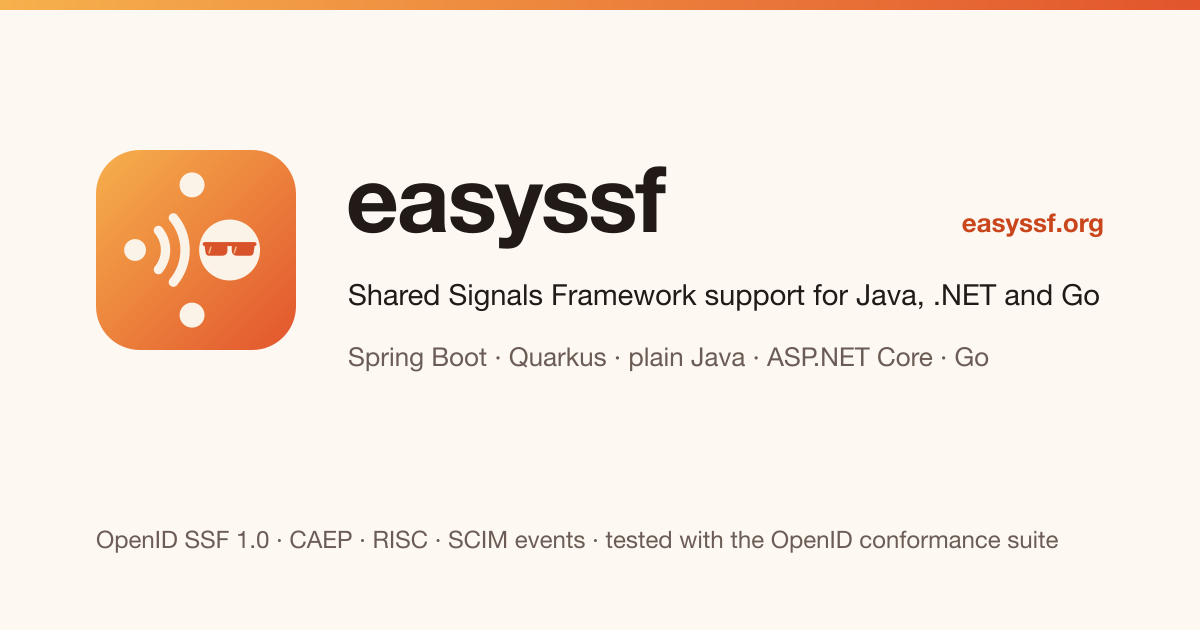
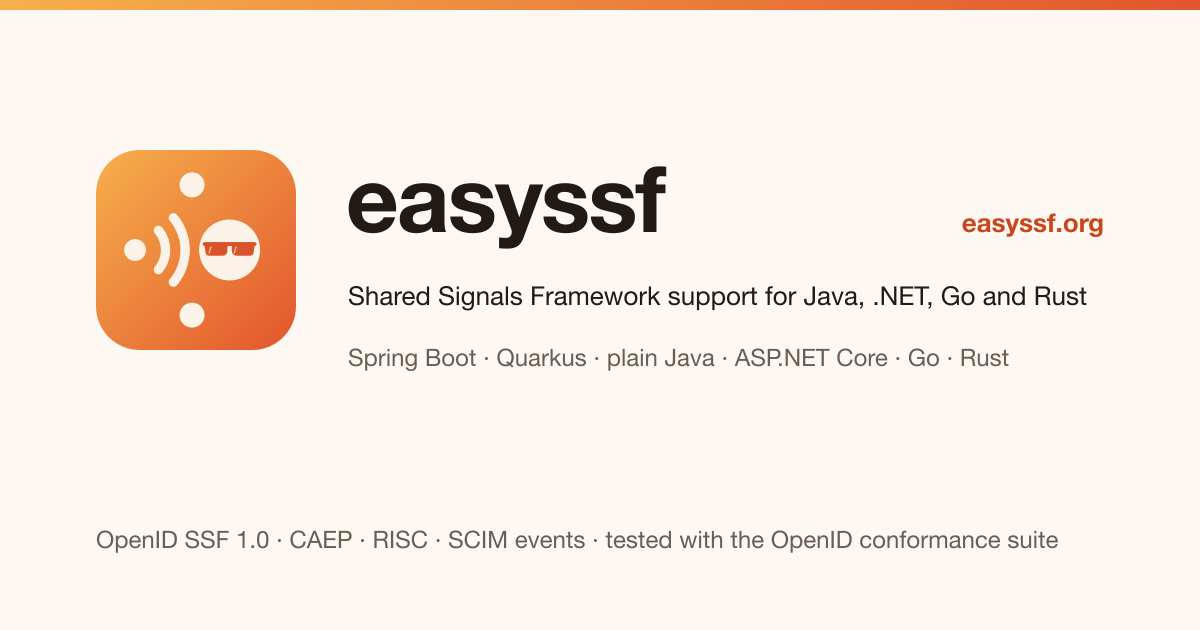
Announce easyssf-rust 0.6.0
A news item, the Rust getting started tab, the module row, Rust in the
hero, metadata and social card, and Rust and TOML syntax highlighting.

Changed region(s): [[0.2775, 0.5429, 0.8325, 0.6032], [0.2775, 0.4524, 0.925, 0.5127]]

diff --git a/index.html b/index.html
@@ -3,8 +3,8 @@
 <head>
 <meta charset="utf-8">
 <meta name="viewport" content="width=device-width, initial-scale=1, viewport-fit=cover">
-<title>easyssf · Shared Signals Framework support for Java, .NET and Go</title>
-<meta name="description" content="easyssf adds an OpenID Shared Signals Framework (SSF) receiver to Java, .NET and Go applications, with a Spring Boot starter, a Quarkus extension, an ASP.NET Core integration and a net/http handler: it verifies security event tokens, revokes access tokens and ends sessions when the identity provider says so.">
+<title>easyssf · Shared Signals Framework support for Java, .NET, Go and Rust</title>
+<meta name="description" content="easyssf adds an OpenID Shared Signals Framework (SSF) receiver to Java, .NET, Go and Rust applications, with a Spring Boot starter, a Quarkus extension, an ASP.NET Core integration, a net/http handler and axum and actix-web crates: it verifies security event tokens, revokes access tokens and ends sessions when the identity provider says so.">
 <link rel="icon" href="easyssf-icon.svg" type="image/svg+xml">
 <link rel="apple-touch-icon" href="apple-touch-icon.png">
 <link rel="canonical" href="https://easyssf.org/">
@@ -13,18 +13,18 @@
 <meta name="theme-color" content="#fdf8f1" media="(prefers-color-scheme: light)">
 <meta name="theme-color" content="#171210" media="(prefers-color-scheme: dark)">
 <meta property="og:site_name" content="easyssf">
-<meta property="og:title" content="easyssf · Shared Signals Framework support for Java, .NET and Go">
-<meta property="og:description" content="Add an OpenID Shared Signals Framework receiver to your Java, .NET or Go application, Spring Boot, Quarkus, ASP.NET Core and net/http included: verified security event tokens, revoked access tokens, ended sessions, tested with the OpenID conformance suite.">
+<meta property="og:title" content="easyssf · Shared Signals Framework support for Java, .NET, Go and Rust">
+<meta property="og:description" content="Add an OpenID Shared Signals Framework receiver to your Java, .NET, Go or Rust application, Spring Boot, Quarkus, ASP.NET Core, net/http, axum and actix-web included: verified security event tokens, revoked access tokens, ended sessions, tested with the OpenID conformance suite.">
 <meta property="og:url" content="https://easyssf.org/">
 <meta property="og:type" content="website">
 <meta property="og:locale" content="en_US">
 <meta property="og:image" content="https://easyssf.org/og-image.png">
 <meta property="og:image:width" content="1200">
 <meta property="og:image:height" content="630">
-<meta property="og:image:alt" content="easyssf: Shared Signals Framework support for Java, .NET and Go, as a Spring Boot starter, a Quarkus extension, a plain Java library, an ASP.NET Core integration and a Go module">
+<meta property="og:image:alt" content="easyssf: Shared Signals Framework support for Java, .NET, Go and Rust, as a Spring Boot starter, a Quarkus extension, a plain Java library, an ASP.NET Core integration, a Go module and Rust crates">
 <meta name="twitter:card" content="summary_large_image">
-<meta name="twitter:title" content="easyssf · Shared Signals Framework support for Java, .NET and Go">
-<meta name="twitter:description" content="Add an OpenID Shared Signals Framework receiver to your Java, .NET or Go application, Spring Boot, Quarkus, ASP.NET Core and net/http included, tested with the OpenID conformance suite.">
+<meta name="twitter:title" content="easyssf · Shared Signals Framework support for Java, .NET, Go and Rust">
+<meta name="twitter:description" content="Add an OpenID Shared Signals Framework receiver to your Java, .NET, Go or Rust application, Spring Boot, Quarkus, ASP.NET Core, net/http, axum and actix-web included, tested with the OpenID conformance suite.">
 <meta name="twitter:image" content="https://easyssf.org/og-image.png">
 <link rel="sitemap" type="application/xml" href="sitemap.xml">
 <link rel="stylesheet" href="site.css">
@@ -38,7 +38,7 @@
       "@id": "https://easyssf.org/#website",
       "url": "https://easyssf.org/",
       "name": "easyssf",
-      "description": "Shared Signals Framework support for Java, .NET and Go",
+      "description": "Shared Signals Framework support for Java, .NET, Go and Rust",
       "inLanguage": "en"
     },
     {
@@ -50,8 +50,8 @@
       "programmingLanguage": "Java",
       "runtimePlatform": ["Java 21", "Spring Boot 4.1", "Quarkus 3.27"],
       "license": "https://www.apache.org/licenses/LICENSE-2.0",
-      "description": "A library that adds an OpenID Shared Signals Framework (SSF) receiver to Java, .NET and Go applications, with a Spring Boot starter, a Quarkus extension, an ASP.NET Core integration and a net/http handler: it verifies security event tokens, revokes access tokens and ends sessions when the identity provider says so.",
-      "keywords": ["Shared Signals Framework", "SSF", "CAEP", "RISC", "SCIM Events", "Security Event Token", "OpenID", "Spring Boot", "Quarkus", "Java", ".NET", "Go", "Keycloak"],
+      "description": "A library that adds an OpenID Shared Signals Framework (SSF) receiver to Java, .NET, Go and Rust applications, with a Spring Boot starter, a Quarkus extension, an ASP.NET Core integration, a net/http handler and axum and actix-web crates: it verifies security event tokens, revokes access tokens and ends sessions when the identity provider says so.",
+      "keywords": ["Shared Signals Framework", "SSF", "CAEP", "RISC", "SCIM Events", "Security Event Token", "OpenID", "Spring Boot", "Quarkus", "Java", ".NET", "Go", "Rust", "Keycloak"],
       "about": [
         {"@type": "Thing", "name": "OpenID Shared Signals Framework 1.0", "url": "https://openid.net/specs/openid-sharedsignals-framework-1_0.html"},
         {"@type": "Thing", "name": "OpenID CAEP 1.0", "url": "https://openid.net/specs/openid-caep-1_0.html"},
@@ -92,22 +92,25 @@
 
 <div class="hero wrap">
 <div class="hero-text">
-  <h1>Shared Signals Framework<br>support for Java, .NET and Go</h1>
+  <h1>Shared Signals Framework<br>support for Java, .NET, Go and Rust</h1>
   <p class="lead">easyssf adds an <a href="https://openid.net/specs/openid-sharedsignals-framework-1_0.html">OpenID
-    Shared Signals Framework</a> receiver to your Java, .NET or Go application, so that it reacts when your identity
+    Shared Signals Framework</a> receiver to your Java, .NET, Go or Rust application, so that it reacts when your identity
     provider revokes a session, changes a credential, or signals a risk. The receiver verifies security events,
     CAEP events about sessions and credentials, RISC events about accounts, and SCIM Events about your users;
     rejects the access tokens and ends the affected sessions; and hands everything else to your code. Spring Boot
     and Quarkus get a starter and an extension; other JVM applications use the receiver library directly; ASP.NET
-    Core applications use the port <a href="https://github.com/easyssf/easyssf-dotnet">easyssf-dotnet</a>; and Go
-    applications the port <a href="https://github.com/easyssf/easyssf-go">easyssf-go</a>, on <code>net/http</code>.</p>
+    Core applications use the port <a href="https://github.com/easyssf/easyssf-dotnet">easyssf-dotnet</a>; Go
+    applications the port <a href="https://github.com/easyssf/easyssf-go">easyssf-go</a>, on <code>net/http</code>; and
+    Rust applications the crates of <a href="https://github.com/easyssf/easyssf-rust">easyssf-rust</a>, for axum and
+    actix-web.</p>
   <div class="badges">
-    <span class="badge">0.6.0 for Java, .NET and Go</span>
+    <span class="badge">0.6.0 for Java, .NET, Go and Rust</span>
     <span class="badge">Java 21+</span>
     <span class="badge">Spring Boot 4.1</span>
     <span class="badge">Quarkus 3.27</span>
     <span class="badge">.NET 10</span>
     <span class="badge">Go 1.25+</span>
+    <span class="badge">Rust 1.94+</span>
     <span class="badge">Apache License 2.0</span>
     <span class="badge">OpenID conformance suite tested</span>
   </div>
@@ -466,10 +469,11 @@
     <p class="muted" style="max-width:70ch">easyssf comes with a starter for Spring Boot and, through the Quarkiverse extension
       <a href="https://github.com/quarkiverse/quarkus-openid-ssf">quarkus-openid-ssf</a>, as an extension for Quarkus.
       Both are built on the same receiver library, which other JVM applications use on their own; all three
-      verify, de-duplicate and dispatch events the same way. Two ports bring the same receiver to other platforms:
-      <a href="https://github.com/easyssf/easyssf-dotnet">easyssf-dotnet</a> to ASP.NET Core applications and
+      verify, de-duplicate and dispatch events the same way. Three ports bring the same receiver to other platforms:
+      <a href="https://github.com/easyssf/easyssf-dotnet">easyssf-dotnet</a> to ASP.NET Core applications,
       <a href="https://github.com/easyssf/easyssf-go">easyssf-go</a> to Go applications on <code>net/http</code>
-      and the frameworks built on it.</p>
+      and the frameworks built on it, and <a href="https://github.com/easyssf/easyssf-rust">easyssf-rust</a> to
+      Rust applications on axum or actix-web.</p>
 
     <div class="switch" role="tablist" aria-label="Framework">
       <button type="button" role="tab" id="tab-spring-boot" aria-controls="start-spring-boot" aria-selected="true">Spring Boot</button>
@@ -477,6 +481,7 @@
       <button type="button" role="tab" id="tab-plain" aria-controls="start-plain" aria-selected="false" tabindex="-1">Plain Java</button>
       <button type="button" role="tab" id="tab-dotnet" aria-controls="start-dotnet" aria-selected="false" tabindex="-1">.NET</button>
       <button type="button" role="tab" id="tab-go" aria-controls="start-go" aria-selected="false" tabindex="-1">Go</button>
+      <button type="button" role="tab" id="tab-rust" aria-controls="start-rust" aria-selected="false" tabindex="-1">Rust</button>
     </div>
 
     <div id="start-spring-boot" class="framework" role="tabpanel" aria-labelledby="tab-spring-boot">
@@ -825,6 +830,84 @@ func (stepUp) OnAssuranceLevelChange(ctx context.Context, event *caep.Event, set
     </ul>
     </div>
 
+    <div id="start-rust" class="framework" role="tabpanel" aria-labelledby="tab-rust" hidden>
+    <p class="muted">Three steps for a Rust application on axum, with
+      <a href="https://github.com/easyssf/easyssf-rust">easyssf-rust</a>, the port of the receiver to Rust: feature
+      complete relative to the Java library, with the same database tables and Keycloak setup, released under the
+      version of the Java library it matches. actix-web has a crate of its own, other frameworks call the push
+      handler directly.</p>
+    <div class="two steps">
+      <div class="step">
+        <h3 id="rust-add-the-crates">Add the crates</h3>
+<pre><code class="language-toml">[dependencies]
+easyssf-receiver = "0.6.0"
+easyssf-receiver-axum = "0.6.0"</code></pre>
+        <p class="muted">From <a href="https://crates.io/crates/easyssf-receiver">crates.io</a>: <code>easyssf-receiver</code>
+          is the receiver without a web framework, <code>easyssf-receiver-axum</code> the push router and the
+          revocation layers for axum, or <code>easyssf-receiver-actix-web</code> for actix-web; add
+          <code>easyssf-receiver-sqlx</code> for database-backed stores. Rust 1.94 or later.</p>
+      </div>
+      <div class="step">
+        <h3 id="rust-name-the-transmitter">Name the transmitter</h3>
+<pre><code class="language-toml">[easyssf.receiver]
+transmitter-issuer = "https://idp.example/realms/demo"
+expected-audience = "https://my-app.example"
+[easyssf.receiver.push]
+expected-auth-header = "Bearer s3cr3t"</code></pre>
+        <p class="muted">The keys of the Spring Boot starter, deserialized with serde into <code>SsfReceiverConfig</code>
+          from TOML, YAML, JSON or the environment through figment, config-rs or the crate of your choice, and
+          validated when the receiver is built. The audience is required, unless the application creates or looks up
+          its stream, which tells it.</p>
+      </div>
+    </div>
+    <div class="step" style="margin-top:20px">
+      <h3 id="rust-create-the-stream">Create the stream</h3>
+      <p class="muted">Create a stream with push delivery at the transmitter that points to
+        <code>https://my-app.example/ssf/push</code> and sends the configured header, or set
+        <code>management = "receiver"</code> under <code>[easyssf.receiver.stream]</code> and let the application
+        create it. <code>SsfRevocationLayer</code> then rejects the access tokens of revoked sessions and users behind
+        your token validation, and <code>SsfSessionRevocationLayer</code> signs revoked tower-sessions out on their next
+        request.</p>
+    </div>
+
+    <h3 id="rust-react-to-any-event" style="margin-top:28px">React to any event</h3>
+<pre><code class="language-rust">use easyssf_receiver::{BoxError, SsfReceiver, caep::{SsfCaepEventHandler, caep}, event::SsfEventContext};
+use easyssf_receiver_axum::push_router_for;
+
+let config: SsfReceiverConfig = figment.extract_inner("easyssf.receiver")?;
+let receiver = SsfReceiver::builder(config)       // validates the configuration
+    .handler(caep(StepUp))                        // any SsfEventHandler; caep, risc and scim dispatch by type
+    .build()?;
+receiver.start();                                 // registers the stream, starts polling
+let app = Router::new().merge(push_router_for(&amp;receiver)); // POST /ssf/push: the SET authenticates itself
+
+struct StepUp;
+
+impl SsfCaepEventHandler for StepUp {
+    async fn on_assurance_level_change(&amp;self, event: SsfCaepEvent, context: SsfEventContext) -> Result&lt;(), BoxError&gt; {
+        if event.change_direction().as_deref() == Some("decrease") {
+            step_up.require(context.subject().subject(), event.current_level()).await?;
+        }
+        Ok(())
+    }
+}</code></pre>
+    <p class="muted" style="margin-top:12px"><code>SsfCaepEventHandler</code>, <code>SsfRiscEventHandler</code> and
+      <code>SsfScimEventHandler</code> hand each event of a SET to a method per event type, with its claims typed;
+      <code>for_event</code> takes a closure for one event type, and an <code>SsfEventHandler</code> gets every verified
+      SET as it is. Handlers run before the SET is acknowledged. If one returns an error, the transmitter is
+      expected to deliver the SET again, so a SET is handled at least once and
+      <code>context.idempotency_key()</code> is the key for a handler's side effects.</p>
+
+    <h3 id="rust-example-applications" style="margin-top:28px">Example applications</h3>
+    <p class="muted">Complete axum applications with a Keycloak setup, in the
+      <a href="https://github.com/easyssf/easyssf-rust/tree/main/examples/">examples of easyssf-rust</a>:</p>
+    <ul class="examples">
+      <li><a href="https://github.com/easyssf/easyssf-rust/tree/main/examples/example-resource-server">OAuth2 resource server</a>: rejects the access tokens of revoked sessions, pushed or polled, with Prometheus metrics.</li>
+      <li><a href="https://github.com/easyssf/easyssf-rust/tree/main/examples/example-oidc-client">OIDC relying party</a>: ends the tower-sessions session Keycloak revoked, or whose password changed.</li>
+      <li><a href="https://github.com/easyssf/easyssf-rust/tree/main/examples/example-scim-provisioning">SCIM provisioning</a>: mirrors SCIM users into a local directory from SCIM Events.</li>
+    </ul>
+    </div>
+
     <div class="grid">
       <div class="card">
         <h3 id="subjects-as-the-spec-defines-them">Subjects as the spec defines them</h3>
@@ -861,7 +944,7 @@ func (stepUp) OnAssuranceLevelChange(ctx context.Context, event *caep.Event, set
   <div class="wrap">
     <h2>Modules</h2>
     <p class="muted">Everything is published under the group id <code>org.easyssf</code>. The Quarkus extension is a
-      Quarkiverse project with its own coordinates; the .NET and Go ports have repositories of their own.</p>
+      Quarkiverse project with its own coordinates; the .NET, Go and Rust ports have repositories of their own.</p>
     <div class="table-wrap">
     <table>
       <thead><tr><th>Module</th><th>What it is</th><th>Depends on</th></tr></thead>
@@ -877,6 +960,7 @@ func (stepUp) OnAssuranceLevelChange(ctx context.Context, event *caep.Event, set
         <tr><td><a href="https://github.com/quarkiverse/quarkus-openid-ssf"><code>quarkus-openid-ssf-receiver</code></a></td><td>The receiver for Quarkus 3.27, group id <code>io.quarkiverse.openid-ssf</code>: configuration, CDI wiring, the Vert.x push route, the poll scheduler, token providers, Micrometer, SmallRye Health, JDBC, Dev UI and native image support. Its examples and conformance tests live in the same repository.</td><td>easyssf-receiver, easyssf-receiver-jdbc, Quarkus</td></tr>
         <tr><td><a href="https://github.com/easyssf/easyssf-dotnet"><code>easyssf-dotnet</code></a></td><td>The receiver for .NET 10, a port of the library with the same tests, tables and Keycloak setup: <code>EasySsf.Core</code>, <code>EasySsf.Receiver</code>, <code>EasySsf.Receiver.Hosting</code> for any <code>Microsoft.Extensions.Hosting</code> application, <code>EasySsf.Receiver.AspNetCore</code> with the push endpoint and the JwtBearer and cookie revocation hooks, <code>EasySsf.Receiver.Data</code> with the stores on ADO.NET, and <code>EasySsf.Testing</code> for the tests of your receiver; on NuGet under the version of the Java library.</td><td>Microsoft.IdentityModel.JsonWebTokens, Microsoft.Extensions.*</td></tr>
         <tr><td><a href="https://github.com/easyssf/easyssf-go"><code>easyssf-go</code></a></td><td>The receiver for Go 1.25, a port of the library with the same tests, tables and Keycloak setup, as the module <code>github.com/easyssf/easyssf-go</code>: <code>ssf</code> with the vocabulary and the typed CAEP, RISC and SCIM events, <code>receiver</code> with the push handler on <code>net/http</code>, the poller, stream management and the revocation middleware, <code>receiver/sqlstore</code> with the stores on <code>database/sql</code>, and <code>ssftest</code> for the tests of your receiver; versioned with the Java library.</td><td>go-jose, the standard library</td></tr>
+        <tr><td><a href="https://github.com/easyssf/easyssf-rust"><code>easyssf-rust</code></a></td><td>The receiver for Rust 1.94, a port of the library with the same tables and Keycloak setup, on crates.io under the version of the Java library: <code>easyssf-core</code> with the vocabulary and the typed CAEP, RISC and SCIM events, <code>easyssf-receiver</code> with verification, push and poll, stream management, the handler traits and revocation, <code>easyssf-receiver-axum</code> and <code>easyssf-receiver-actix-web</code> with the push endpoint and the revocation layers of the two frameworks, and <code>easyssf-receiver-sqlx</code> with the stores on SQLite, PostgreSQL and MySQL; <code>easyssf-test</code>, the test transmitter, in the repository.</td><td>jsonwebtoken, serde, tokio, reqwest</td></tr>
       </tbody>
     </table>
     </div>

diff --git a/news.html b/news.html
@@ -4,7 +4,7 @@
 <meta charset="utf-8">
 <meta name="viewport" content="width=device-width, initial-scale=1, viewport-fit=cover">
 <title>News · easyssf</title>
-<meta name="description" content="Releases and other news of easyssf, the Shared Signals Framework library for Java, .NET and Go.">
+<meta name="description" content="Releases and other news of easyssf, the Shared Signals Framework library for Java, .NET, Go and Rust.">
 <link rel="icon" href="easyssf-icon.svg" type="image/svg+xml">
 <link rel="apple-touch-icon" href="apple-touch-icon.png">
 <link rel="canonical" href="https://easyssf.org/news.html">
@@ -13,7 +13,7 @@
 <meta name="theme-color" content="#171210" media="(prefers-color-scheme: dark)">
 <meta property="og:site_name" content="easyssf">
 <meta property="og:title" content="News · easyssf">
-<meta property="og:description" content="Releases and other news of easyssf, the Shared Signals Framework library for Java, .NET and Go.">
+<meta property="og:description" content="Releases and other news of easyssf, the Shared Signals Framework library for Java, .NET, Go and Rust.">
 <meta property="og:url" content="https://easyssf.org/news.html">
 <meta property="og:type" content="website">
 <meta property="og:image" content="https://easyssf.org/og-image.png">

diff --git a/site.js b/site.js
@@ -77,6 +77,21 @@
       ['t', '\\b[A-Z][A-Za-z0-9_]*\\b'],
       ['n', '\\b\\d[\\d_]*\\b']
     ],
+    rust: [
+      ['c', '\\/\\/[^\\n]*|\\/\\*[\\s\\S]*?\\*\\/'],
+      ['s', 'b?"(?:[^"\\\\\\n]|\\\\.)*"'],
+      ['a', '#!?\\[[^\\]]*\\]|\\b[a-z_]\\w*!(?=\\()'],
+      ['k', '\\b(?:as|async|await|break|const|continue|crate|dyn|else|enum|extern|false|fn|for|if|impl|in|let|loop|match|mod|move|mut|pub|ref|return|self|Self|static|struct|super|trait|true|type|unsafe|use|where|while|str|bool|u8|u32|u64|usize|i32|i64)\\b'],
+      ['t', '\\b[A-Z][A-Za-z0-9_]*\\b'],
+      ['n', '\\b\\d[\\d_]*(?:u8|u32|u64|usize|i32|i64|f32|f64)?\\b']
+    ],
+    toml: [
+      ['c', '#[^\\n]*'],
+      ['s', '"(?:[^"\\\\\\n]|\\\\.)*"'],
+      ['a', '^\\s*\\[[^\\]]*\\]'],
+      ['k', '\\b(?:true|false)\\b'],
+      ['n', '\\b\\d[\\d_.]*\\b']
+    ],
     xml: [
       ['c', '<!--[\\s\\S]*?-->'],
       ['s', '"[^"]*"'],

diff --git a/README.md b/README.md
@@ -9,8 +9,8 @@ The project website, static files without a build step or external resources:
 | `news.json` | the news items, see below |
 | `news.js` | renders `news.json` into both pages |
 | `tools.html`, `tools.js` | the tools page, one tool at a time behind a switcher like jwt.io's, each linkable as `tools.html#inspector` etc.: the listing of all event types with their claims and easyssf aliases, links to other tools such as caep.dev, a Security Event Token generator for the CAEP, RISC, SCIM and SSF event types with RFC 9493 subjects, signed in the browser with Web Crypto (the key is kept in `localStorage`), a SET inspector, and a transmitter metadata checker that fetches `/.well-known/ssf-configuration` for an issuer or a metadata URL (the SSF 1.0 location, the one appended to the issuer, and the RISC one; transmitters without CORS headers block the cross-origin read, so the document can be pasted), checks it against section 7 of SSF 1.0, including that the issuer of the document matches the URL it was fetched from, and lists the findings behind a collapsible count; "Copy as link" encodes the form state into a URL fragment, so a SET can be linked to, and `#generate=CaepSessionRevoked` / `#event=CaepSessionRevoked` (alias, URI, `caep/session-revoked` or `session-revoked`) link to an event type in the generator or the listing; custom JSON claims can be merged into the SET and the event payload; named token presets (issuer, audience, signature, legacy subject, custom SET claims) are kept in `localStorage` only |
-| `site.js` | shared by every page: a minimal syntax highlighter for the code blocks (XML, YAML, properties, Java, C#, Go, JSON; `<code class="language-...">`, guessed when missing), the theme toggle of the header (system, light, dark, kept in `localStorage` and applied by an inline script in the head before the first paint) and the height of the sticky header as a CSS variable, the scroll margin of the sections |
-| `start.js` | the Spring Boot / Quarkus / plain Java / .NET / Go switch of the getting started section, deep-linkable as `index.html#start-quarkus`, `index.html#start-dotnet` or `index.html#start-go` |
+| `site.js` | shared by every page: a minimal syntax highlighter for the code blocks (XML, YAML, TOML, properties, Java, C#, Go, Rust, JSON; `<code class="language-...">`, guessed when missing), the theme toggle of the header (system, light, dark, kept in `localStorage` and applied by an inline script in the head before the first paint) and the height of the sticky header as a CSS variable, the scroll margin of the sections |
+| `start.js` | the Spring Boot / Quarkus / plain Java / .NET / Go / Rust switch of the getting started section, deep-linkable as `index.html#start-quarkus`, `index.html#start-dotnet`, `index.html#start-go` or `index.html#start-rust` |
 | `site.css` | the stylesheet of all pages; light and dark theme by `prefers-color-scheme`, or forced with `data-theme` on the root element |
 | `easyssf-icon.svg` | the logo, used as favicon and in the header; a copy of `img/easyssf-logo.svg` |
 | `apple-touch-icon.png` | the logo as a 180×180 PNG for browsers without SVG favicons and for home screens, rendered from the logo, see below |
